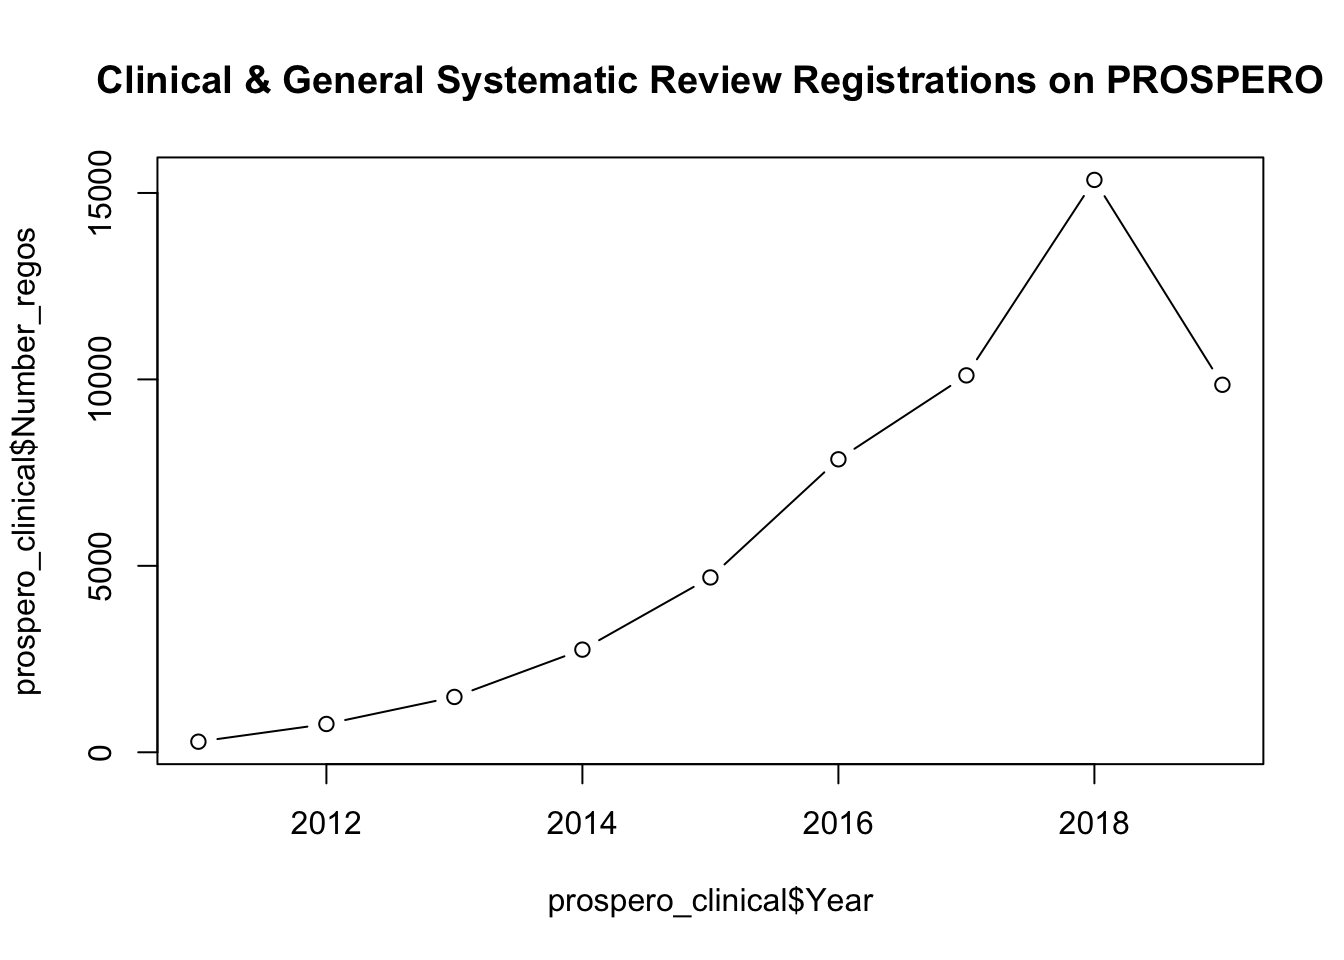
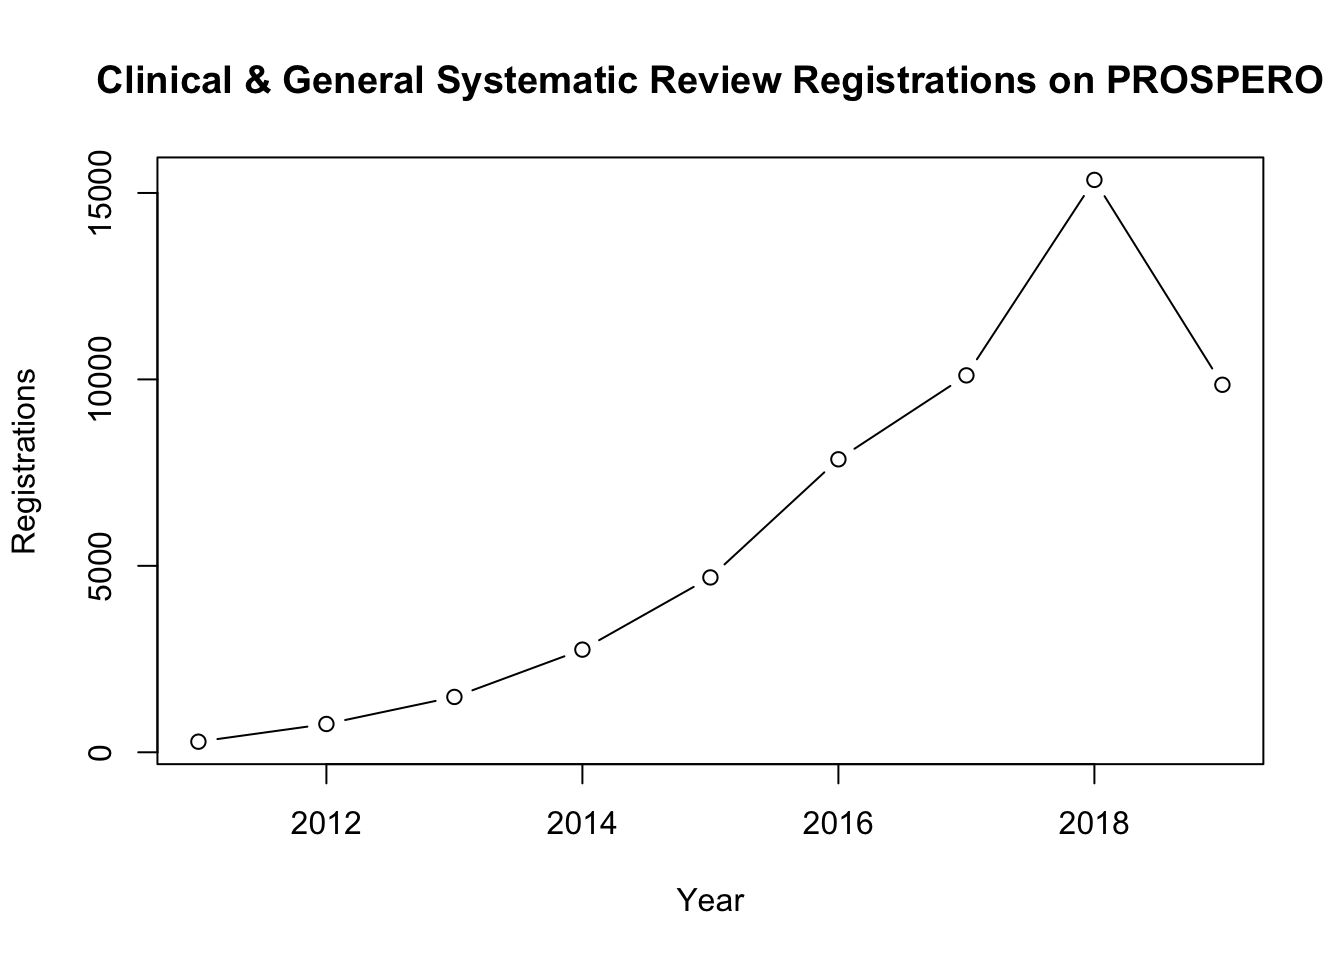
update all v 0.6

Changed region(s): [[0.0, 0.2188, 0.0312, 0.7188], [0.4062, 0.9062, 0.6562, 0.9688]]

diff --git a/docs/_site/PROSPERO.html b/docs/_site/PROSPERO.html
@@ -311,14 +311,14 @@ $(document).ready(function () {
 
 <div id="introduction" class="section level2">
 <h2>Introduction</h2>
-<p>This is document which shows the summary information from PROSPERO (<a href="https://www.crd.york.ac.uk/prospero/" class="uri">https://www.crd.york.ac.uk/prospero/</a>) about systematic review registrations. This document is built for the EQUATOR Network.</p>
+<p>This is document which shows the summary information from <a href="https://www.crd.york.ac.uk/prospero/">PROSPERO</a> about systematic review registrations. This document is built for the EQUATOR Network.</p>
 </div>
 <div id="data" class="section level2">
 <h2>Data</h2>
 <p>Data from PROSPERO is kindly provided by Ruth Walker at PROSPERO.</p>
 <pre class="r"><code># load csv files
 prospero_all &lt;- read.csv(&quot;~/Documents/auto_retrieval/prospero_numbers_all.csv&quot;, sep = &quot;,&quot;, header=TRUE)
-plot(prospero_all$Year, prospero_all$Number_regos, type=&#39;b&#39;, main = &quot;All systematic review registrations on PROSPERO&quot;)</code></pre>
+plot(prospero_all$Year, prospero_all$Number_regos, type=&#39;b&#39;, main = &quot;All systematic review registrations on PROSPERO&quot;, xlab = &quot;Year&quot;, ylab=&quot;Registrations&quot;)</code></pre>
 <p><img src="PROSPERO_files/figure-html/unnamed-chunk-1-1.png" width="672" /></p>
 </div>
 <div id="clinical-and-general-registrations" class="section level2">
@@ -326,12 +326,12 @@ plot(prospero_all$Year, prospero_all$Number_regos, type=&#39;b&#39;, main = &quo
 <pre class="r"><code># load csv
 prospero_clinical &lt;- read.csv(&quot;~/Documents/auto_retrieval/prospero_numbers_clinical.csv&quot;, sep = &quot;,&quot;, header = TRUE)
 # plot
-plot(prospero_clinical$Year, prospero_clinical$Number_regos, type=&#39;b&#39;, main = &quot;Clinical &amp; General Systematic Review Registrations on PROSPERO&quot;)</code></pre>
+plot(prospero_clinical$Year, prospero_clinical$Number_regos, type=&#39;b&#39;, main = &quot;Clinical &amp; General Systematic Review Registrations on PROSPERO&quot;, xlab = &quot;Year&quot;, ylab=&quot;Registrations&quot;)</code></pre>
 <p><img src="PROSPERO_files/figure-html/unnamed-chunk-2-1.png" width="672" /> ## Animal Systematic Review Registrations</p>
 <pre class="r"><code># load csv
 prospero_animal &lt;- read.csv(&quot;~/Documents/auto_retrieval/prospero_numbers_animal.csv&quot;, sep = &quot;,&quot;, header = TRUE)
 # plot
-plot(prospero_animal$Year, prospero_animal$Number_regos, type=&#39;b&#39;, main = &quot;Animal Systematic Review Registrations on PROSPERO&quot;)</code></pre>
+plot(prospero_animal$Year, prospero_animal$Number_regos, type=&#39;b&#39;, main = &quot;Animal Systematic Review Registrations on PROSPERO&quot;, xlab = &quot;Year&quot;, ylab=&quot;Registrations&quot;)</code></pre>
 <p><img src="PROSPERO_files/figure-html/unnamed-chunk-3-1.png" width="672" /></p>
 </div>
 <div id="cochrane-systematic-review-registrations" class="section level2">
@@ -339,7 +339,7 @@ plot(prospero_animal$Year, prospero_animal$Number_regos, type=&#39;b&#39;, main 
 <pre class="r"><code># load csv
 prospero_cochrane &lt;- read.csv(&quot;~/Documents/auto_retrieval/prospero_numbers_cochrane.csv&quot;, sep = &quot;,&quot;, header = TRUE)
 # plot
-plot(prospero_cochrane$Year, prospero_cochrane$Number_regos, type=&#39;b&#39;, main = &quot;Cochrane Systematic Review Registrations on PROSPERO&quot;)</code></pre>
+plot(prospero_cochrane$Year, prospero_cochrane$Number_regos, type=&#39;b&#39;, main = &quot;Cochrane Systematic Review Registrations on PROSPERO&quot;, xlab = &quot;Year&quot;, ylab=&quot;Registrations&quot;)</code></pre>
 <p><img src="PROSPERO_files/figure-html/unnamed-chunk-4-1.png" width="672" /></p>
 <p>Please contact <a href="mailto:alexandra_bannachbrown@bond.edu.au" target="_blank" Alexandra Bannach-Brown</a> if you have any questions.</p>
 </div>

diff --git a/docs/_site/pubmed_sys_rev.html b/docs/_site/pubmed_sys_rev.html
@@ -313,9 +313,9 @@ $(document).ready(function () {
 <h2>Introduction</h2>
 <p>This is document which shows the summary information from <a href="https://www.ncbi.nlm.nih.gov/pubmed" target="_blank" PubMed</a> about the number of systematic reviews indexed.</p>
 </div>
-<div id="systematic-reviews-of-human-studies" class="section level1">
-<h1>Systematic Reviews of Human Studies</h1>
-<p>Then we query PubMed via the API to find the number of records that are systematic reviews and have the ‘human’ MESH heading attached.</p>
+<div id="systematic-reviews-of-human-studies" class="section level2">
+<h2>Systematic Reviews of Human Studies</h2>
+<p>We query PubMed via the API to find the number of records that are systematic reviews and have the ‘human’ MESH heading attached.</p>
 <pre class="r"><code># human systematic reviews pubmed query
 sys_rev_human_query &lt;- &quot;(systematic review[PTYP] AND human[MESH])&quot;
 sys_rev_human_search &lt;- entrez_search(db = &quot;pubmed&quot;, sys_rev_human_query, use_history = TRUE )
@@ -330,11 +330,11 @@ sys_rev_human_search$count</code></pre>
 year &lt;- 2008:2018
 papers &lt;- sapply(year, sys_rev_year, term=&quot;(systematic review[PTYP] AND human[MESH])&quot;, USE.NAMES = FALSE)
 ## produce the plots
-plot(year, papers, type=&#39;b&#39;, main=&quot;Increase in Human Systematic Reviews - Count per year 2008:2018&quot;)</code></pre>
+plot(year, papers, type=&#39;b&#39;, main=&quot;Increase in Human Systematic Reviews - Count per year 2008:2018&quot;, xlab = &quot;Year&quot;,ylab=&quot;Articles&quot;)</code></pre>
 <p><img src="pubmed_sys_rev_files/figure-html/sys%20rev%20human%20graph-1.png" width="672" /></p>
 </div>
-<div id="systematic-reviews-of-animal-studies" class="section level1">
-<h1>Systematic Reviews of Animal Studies</h1>
+<div id="systematic-reviews-of-animal-studies" class="section level2">
+<h2>Systematic Reviews of Animal Studies</h2>
 <p>Then we query PubMed via the API to find the number of records that are systematic reviews and ‘animal’ MeSH heading.</p>
 <pre class="r"><code>alt_animal_query &lt;- &quot;(systematic review[PTYP] AND animal[MESH] NOT human[MESH])&quot;
 
@@ -350,7 +350,7 @@ sys_rev_animal_search$count</code></pre>
 year &lt;- 2008:2018
 papers_animal &lt;- sapply(year, sys_rev_year, term=&quot;(systematic review[PTYP] AND animal[MESH] NOT human[MESH])&quot;, USE.NAMES = FALSE)
 ## produce the plots
-plot(year, papers_animal, type=&#39;b&#39;, main=&quot;Increase in Animal Systematic Reviews - Count per year 2008:2018&quot;)</code></pre>
+plot(year, papers_animal, type=&#39;b&#39;, main=&quot;Increase in Animal Systematic Reviews - Count per year 2008:2018&quot;, xlab = &quot;Year&quot;,ylab=&quot;Articles&quot;)</code></pre>
 <p><img src="pubmed_sys_rev_files/figure-html/sys%20rev%20animal%20graph-1.png" width="672" /></p>
 <p>Please contact <a href="mailto:alexandra_bannachbrown@bond.edu.au" target="_blank" Alexandra Bannach-Brown</a> if you have any questions.</p>
 </div>

diff --git a/docs/_site/clinical_trials.html b/docs/_site/clinical_trials.html
@@ -311,7 +311,7 @@ $(document).ready(function () {
 
 <div id="introduction" class="section level2">
 <h2>Introduction</h2>
-<p>This is document which shows the summary information about trials registered in <a href="http://clinicaltrials.gov" target="_blank" ClinicalTrials.gov</a>.</p>
+<p>This is document which shows the summary information about trials registered in <a href="http://clinicaltrials.gov" target="_blank" ClinicalTrials.gov </a>.</p>
 </div>
 <div id="total-number-of-trials" class="section level2">
 <h2>Total Number of Trials</h2>
@@ -345,6 +345,7 @@ $(document).ready(function () {
 </div>
 <div id="trials-registered-in-the-past-10-years" class="section level2">
 <h2>Trials Registered in the Past 10 years</h2>
+<p>Graph showing the increase in clinical intervention trials published in the last</p>
 <pre class="r"><code>#### code adapted from Billy Caughey tutorial 9th March 2017 https://rpubs.com/wgcaughey1984/257099 ##
 
 ##### Initial Values #####

diff --git a/docs/_site/index.html b/docs/_site/index.html
@@ -307,7 +307,7 @@ $(document).ready(function () {
 
 <p>This website provides up-to-date summaries of different publication types and summary information from a number of different sources on the numbers of publications. This website is built for the EQUATOR Network.</p>
 <p>Dates on each page refer to the date the search was run.</p>
-<p>Please contact a href=“<a href="mailto:alexandra_bannachbrown@bond.edu.au">mailto:alexandra_bannachbrown@bond.edu.au</a>” target=“_blank&quot; Alexandra Bannach-Brown</a> if you have any questions.</p>
+<p>Please contact <a href="mailto:alexandra_bannachbrown@bond.edu.au" target="_blank" Alexandra Bannach-Brown</a> if you have any questions.</p>
 
 <p>Copyright &copy; 2019 EQUATOR Network </p>
 
